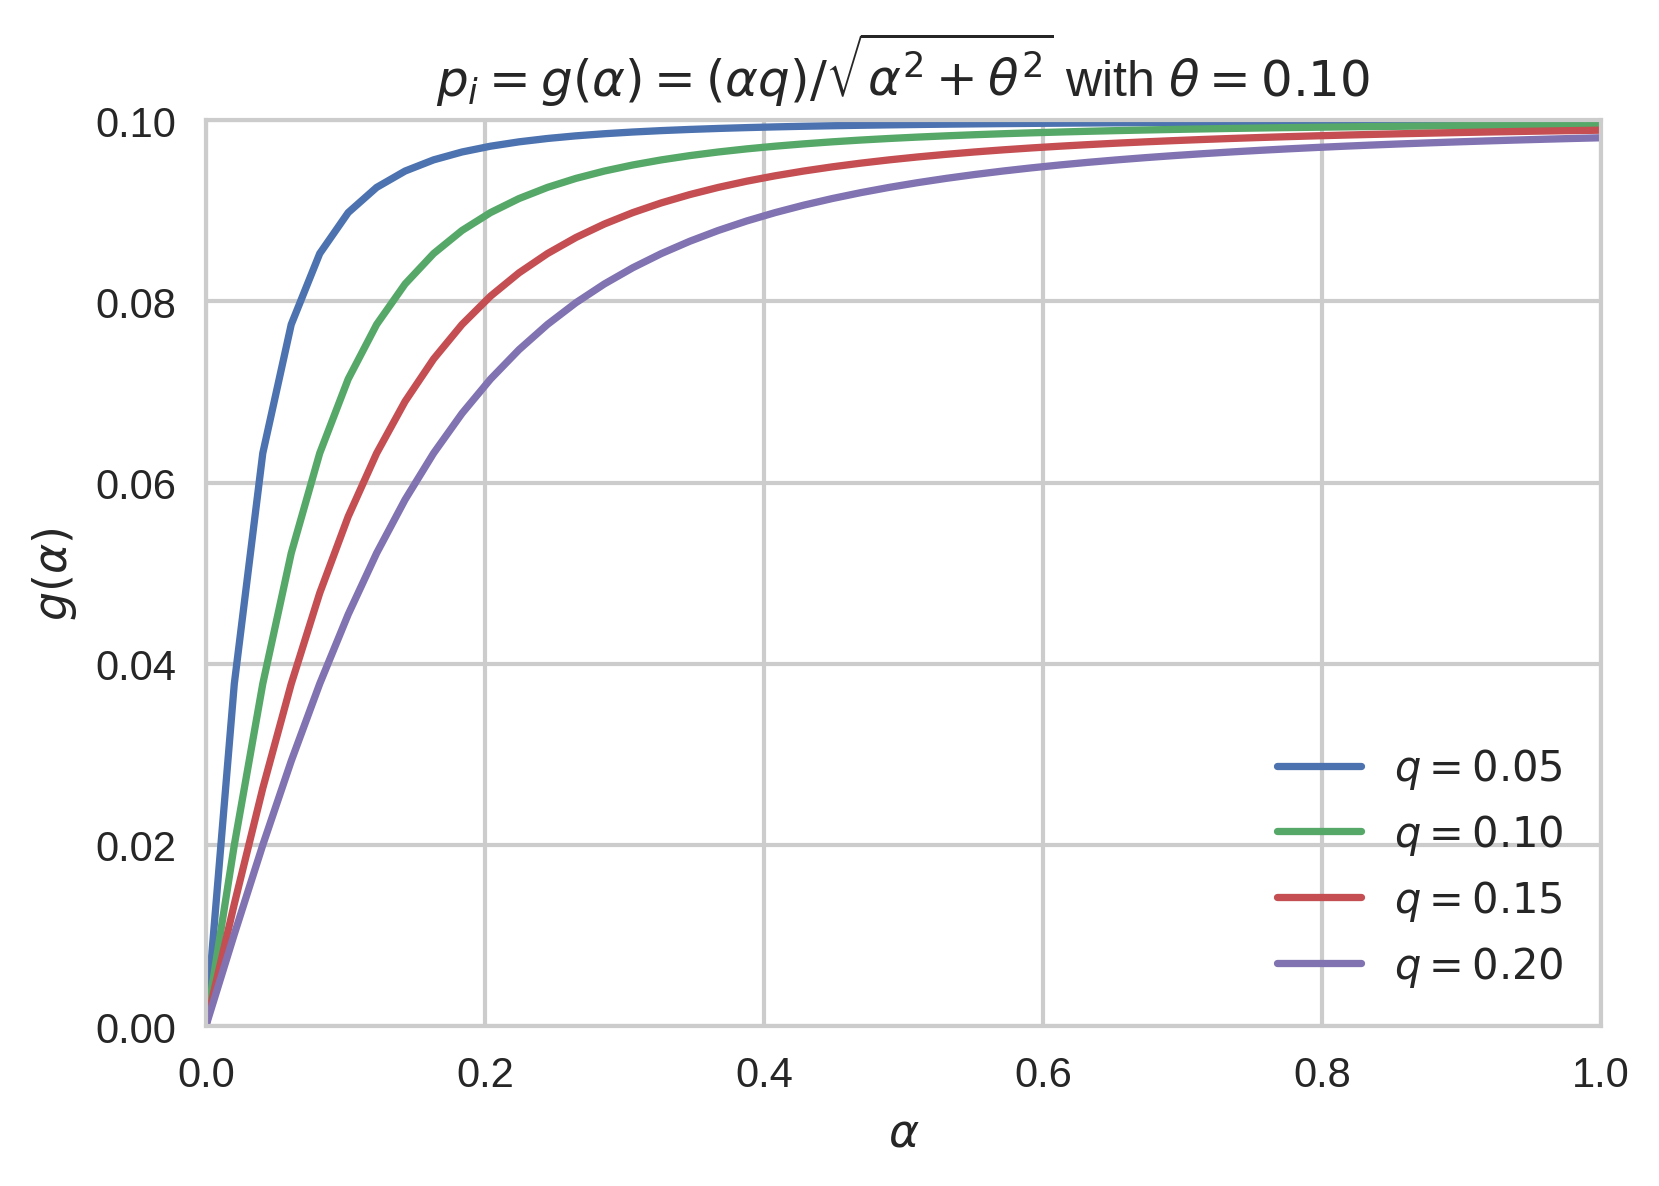
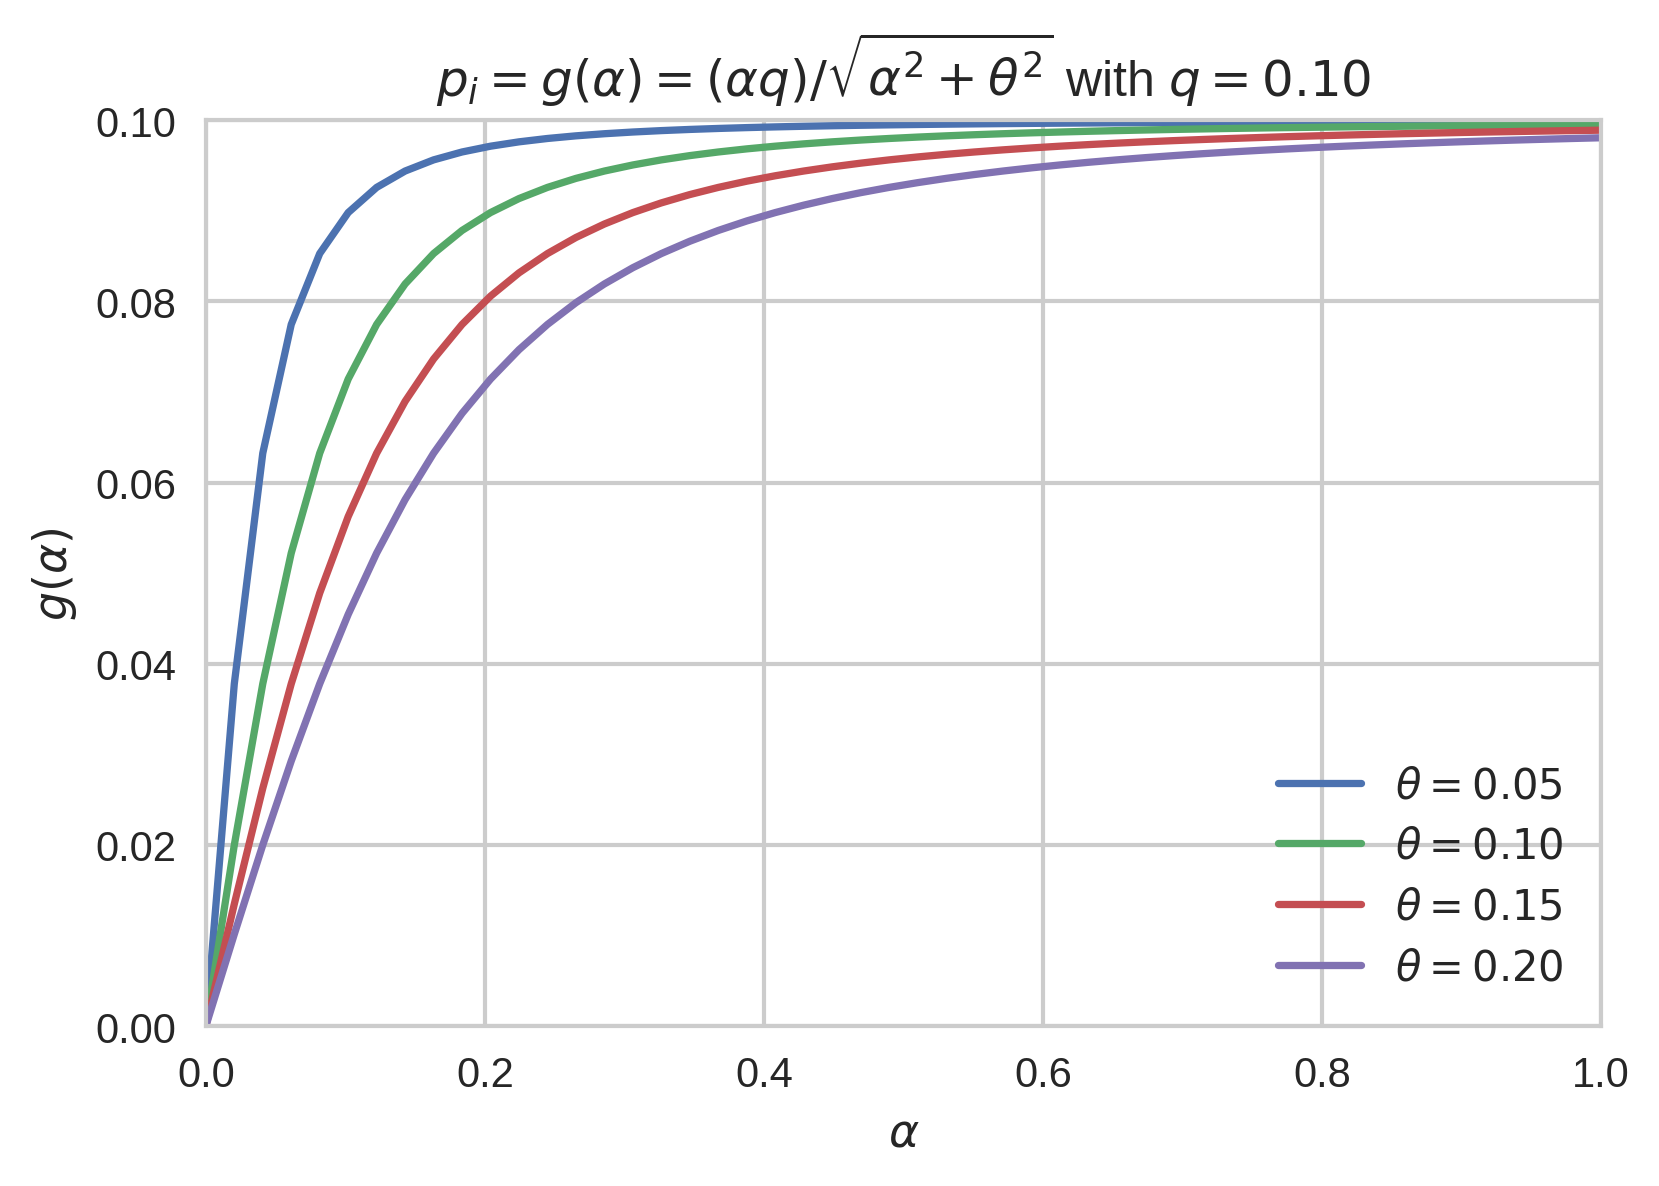
fixed legend in a fig started to describe peer influence mechanism in more detail (softmax)

diff --git a/model.tex b/model.tex
@@ -259,36 +259,69 @@ This can, of course, alter the inter-event time distribution of the node with th
 This, in this case implicit, influence that nodes have on the activity on their neighbors is an interesting effect and was a starting point for this thesis.
 In this section is a extension of the prior discussed base model with memory and closure effects presented, that tries to model the influences of peer in the local network in a more explicit way.
 
-The ideas for this model were heavily influenced by the work of \citet{Walk2016}, which is described in detail in \autoref{sec:peer-influence}.
+The ideas for this model were heavily influenced by the work of \citet{Walk2016}.
+They proposed a model that includes peer-influence and its impact on the state of activity in collaboration networks.
+A more detailed description of their work is located in \autoref{sec:peer-influence}.
+The gist of the here proposed extension to the model is that a node can not only become active on its own based on its activity potential, but also by being motivated to become active by its neighbors, that were active in the previous iteration.
+Another way to look at it would be that active nodes can influence their neighbors to become active as well in the next round.
+Therefore, introducing a more explicit peer influence mechanism to the model.
+This also means that a node now can become active in three different ways.
+First, it can become active by himself either due to its intrinsic fixed activity probability or due to the influence of the nodes in its egocentric network, or it can become active in a passive way by being contact by another active node.
+
+The peer influence that a node \(v_{i} \) receives from its neighbors is denoted as \( p_{i} \).
+Like the activity potential, \( p_{i} \) is a probability for an activation as well, but instead of being fixed, it may vary in each iteration based on the number of active neighbors in the last round.
+Therefore, a more appropriate notation is \( p_{i}(t) \).
+To regulate how much peer influence a node can receive at most an upper bound \( q \) is defined, such that \(\forall t: \, 0 \leq p_{i}(t) \leq q\).
+It states the maximal probability for an activation motivated by the neighbors of a node.
+
+Since the peer influence probability depends on the neighbors that were active in the last round, the information of the last activation must be stored.
+This is done by extending the egocentric networks to save the timestamp of the last activation for each node.
+The time of last activation of a node \( v_{i} \) is called \( t_{i} \) and is updated independent of the type of activation (i.e., due to self activation or by being contacted by another active node).
+For nodes that were not active yet, \( t_{i} \) should be initialized with some dummy value, for example -1.
+However, the peer influence probability should not only depend on how many neighbors were active the round before, but also on the strength of the ties in the egocentric network.
+A neighbor that shares a strong connection with a node should be more influential than, for example, neighbors that were only recently introduced to the egocentric network.
+This can easily be described by a weighted fraction of the last active neighbors.
+However, to make it more general and tune-able the following version of the weighted fraction of active neighbors at time \(t - 1\) is used, that transforms the weights beforehand.
+Each weight in the egocentric networks is transformed and normalized by \( w'_{i,j} = \sfrac{\exp(\beta w_{i,j})}{\sum_{k} \exp(\beta w_{i,k})} \), where \( \beta \) is a free parameter.
+This corresponds to applying the softmax or normalized exponential function~\cite{Bishop2006} to each weight.
+The softmax function is strongly related to the Boltzmann distribution~\cite{vanLaarhoven1987}, which describes the probability for states in a physical system with respect to the systems temperature and the energy of its states.
+Low energy states have a higher probability in the distribution, and as the temperature of the system gets close to zero, the probability for the state with the lowest energy is almost equal to one.
+Whereas, in a high temperature system all states are nearly equiprobable.
+The free parameter \( \beta \) in the softmax function called is inverse temperature and replicates this behavior.
+For example, a value of \( \beta = 0 \) (very high temperature) would scale every weight to the same value, which means that every active neighbor influences a node equally, regardless of the tie strength.
+However, it also possible to make \( \beta \) depended on the time (i.e., \( \beta(t) \)), similar to a physical system that is cooling off or heating up.
+For this thesis, the temperature at time \( t \) is set to the average weight in the integrated network \( G_{T} = \sum_{i=0}{t} G_{i}\) (i.e., \( \beta(t) = \frac{1}{m} \sum_{(i,j) \in E(G_{T})} w_{i,j} \)).
+The average weight, similar to the local clustering coefficient and average degree, converges to a value after some time as well.
+The normalized weights \( w'_{i,j} \) are part of the extended egocentric as well (c.f. \autoref{fig:extended-egocentric-network}) and must be updated at the end of every iteration.
+The fraction of active neighbors \( \alpha_{i}(t) \) of node \(v_{i} \) at time \( t - 1 \) is then given by
+
+\begin{equation}
+    \alpha_{i}(t) = \frac{\sum_{j \in N(i)} \mathbf{1}_{\{t_{j} = t-1\}} \exp(\beta w_{i, j})}{\sum_{j \in N(i)} \exp(\beta w_{i, j})} = \frac{\sum_{j \in N(i)} \mathbf{1}_{\{t_{j} = t-1\}} w'_{i, j}}{\sum_{j \in N(i)} w'_{i, j}},
+\end{equation}
+
+where \( \mathbf{1} \) is the indicator function, which yields the value of one every time its condition is true, otherwise it is zero.
+
+\begin{equation}
+    p_{i}(t) = g(\alpha_{i}(t)) = \frac{\alpha_{i}(t) q}{\sqrt{\alpha_{i}^{2}(t) + \theta^2}}
+\end{equation}
 
 
 \begin{figure}
     \centering
-
     \begin{tikzpicture}[node/.style={circle,fill=red!70,minimum size=1em,inner sep=3pt]}, neighbor/.style={circle,fill=blue!70,minimum size=1em,inner sep=3pt]}]
-      \node[node] (1) at (-1, -1)  {i};
-      \node[neighbor] (2) at (2.5, 1.5) {j};
-      \node[neighbor] (3) at (2.5, -1) {k};
-      \node[neighbor] (4) at (2.5, -3.5) {l};
+      \node[node, label=left:{$t_{i} = 43$}] (1) at (-1, -1)  {i};
+      \node[neighbor, label=right:{$t_{j} = 42$}] (2) at (3, 2.0) {j};
+      \node[neighbor, label=right:{$t_{k} = 23$}] (3) at (3, -1) {k};
+      \node[neighbor, label=right:{$t_{l} = 39$}] (4) at (3, -4.0) {l};
 
-      \draw (1) -- (2) node [midway, above, sloped] (a) {$w_{i,j} = 3$};
-      \draw (1) -- (3) node [midway, above, sloped] (b) {$w_{i,k} = 5$};
-      \draw (1) -- (4) node [midway, above, sloped] (c) {$w_{i,l} = 2$};
+      \draw (1) -- (2) node [midway, above, sloped, align=right] (a) {$w_{i,j} = 3$ \\ $w'_{i,j} = 0.114$};
+      \draw (1) -- (3) node [midway, above, sloped, align=right] (b) {$w_{i,k} = 5$ \\ $w'_{i,k} = 0.844$};
+      \draw (1) -- (4) node [midway, above, sloped, align=right] (c) {$w_{i,l} = 2$ \\ $w'_{i,l} = 0.042$};
     \end{tikzpicture}
 
-    \caption[Extended egocentric network example]{Extended egocentric network of the node \(v_{i} \) (red node) and its neighbors \( v_{j} \), \( v_{k} \), and \( v_{l} \) (blue nodes).}
-    \label{fig:egocentric-network}
+    \caption[Extended egocentric network example]{Extended egocentric network of the node \(v_{i} \) (red node) and its neighbors \( v_{j} \), \( v_{k} \), and \( v_{l} \) (blue nodes). Each node stores additionally the point in time on which it was last active. For instance, node \(v_{j} \) was the last time active at \( t = 42 \).}
+    \label{fig:extended-egocentric-network}
 \end{figure}
-
-
-\begin{equation}
-    \alpha_{i} = \frac{\sum_{j \in N(i)} \mathbf{1}_{\{t_{j} = t-1\}} \exp(w_{i, j})}{\sum_{j \in N(i)} \exp(w_{i, j})}
-\end{equation}
-
-
-\begin{equation}
-    p_{i} = g(\alpha_{i}) = \frac{\alpha_{i} q}{\sqrt{\alpha^{2} + \theta^2}}
-\end{equation}
 
 
 \myfig{peer-influence-sigmoid}
@@ -296,7 +329,6 @@ The ideas for this model were heavily influenced by the work of \citet{Walk2016}
       {ffff}
       {asdfdf}
       {fig:peer-influence-sigmoid}
-
 
 \begin{table}[]
 \centering
@@ -317,7 +349,7 @@ The ideas for this model were heavily influenced by the work of \citet{Walk2016}
 \( \delta \) & The constant factor that is added to the tie strength when it is reinforced. \\
 \( c \) &  The memory constant, which influences the probability for a new tie.\\ \hline \hline
 
-\multicolumn{2}{c}{peer influence extension} \\
+\multicolumn{2}{c}{peer influence extension} \\ \hline
 \( q \) & The maximum possible peer influence probability that a node can receive. \\
 \( \theta \) & The critical threshold for the peer influence.  \\ \hline
 \end{tabular}
